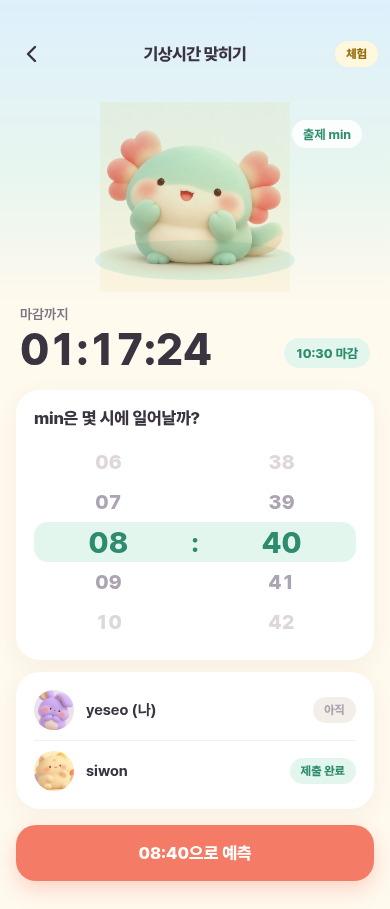
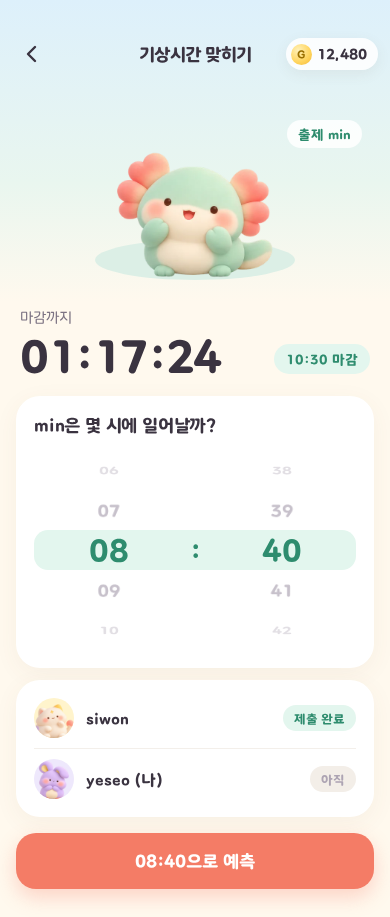
Document the final character art

diff --git a/docs/design.md b/docs/design.md
@@ -20,16 +20,32 @@
 | 본문 여백 | 16px, 카드 간격 12px |
 | 제목/카운트다운 | 17px 800 / 44px 800 |
 
-캐릭터 8종의 원본은 크림색 배경의 1254px RGB 이미지다. 시안처럼 `mix-blend-mode:multiply`로 배경을 녹이면 색이 있는 배경 위에서 네모 테두리가 드러나므로, `scripts/cutout-characters.py`로 배경을 투명하게 오리고 바닥 그림자만 반투명으로 남긴 640px PNG를 `public/characters`에 넣었다. 캐릭터 그림 자체는 수정하지 않았다. 파일 이름은 시안과 같다(`bread`, `monkey` 등). 현재 애니메이션은 CSS의 가벼운 움직임이며 `prefers-reduced-motion`을 지원한다. 최종 투명 캐릭터나 Rive/Lottie는 후속 작업이다.
+캐릭터 8종은 사용자가 완성한 투명 RGBA 아트다. 원본은 Google Drive의 [YEGOOM 3/characterImg](https://drive.google.com/drive/folders/1PTne7e8qwR8GlWlDRXyHTMHcZ_MDo71O)에 읽기 전용으로 보관한다. 캐릭터마다 `idle`, `happy`, `sleepy`, `greet`, `jump` 시트가 하나씩 있으며, 각 시트는 1536×1024px, 3열×2행의 512×512px 칸 6개로 구성된다. 프레임 순서는 좌→우, 위→아래이며 발 기준선은 칸 안의 y=470이다. 공중 프레임과 포즈별 차이를 포함해 원본 위치를 그대로 유지한다.
+
+`scripts/prepare-characters.py`는 칸을 자르고 이어 붙이거나 포맷을 변환할 뿐, 앱에 쓰는 프레임을 리샘플하거나 이동·보정하지 않는다. `idle`의 f0을 그대로 저장한 512px RGBA PNG 8장을 `public/characters/<key>.png`에, 6프레임을 가로로 이어 붙인 3072×512px WebP 40장을 `public/characters/sprites/<key>-<state>.webp`에 둔다. WebP는 RGB quality 85와 무손실 alpha를 사용한다. 키·캐릭터 이름·tint는 유지한다. 분리한 프레임, 미리보기 GIF, 검사 시트와 `manifest.csv`는 [characterImg_web](https://drive.google.com/drive/folders/1mtBQMxxZqBEpQ2uk532ZtcuBg98o8FER)에 보관한다.
+
+`src/components/UI.tsx`의 `CharacterSprite`는 `background-position-x`를 `steps(6, jump-none)`으로 옮겨 6프레임을 같은 시간씩 표시한다. 재생 설정은 한 곳에 모은다.
+
+| state | 길이 | 재생 |
+| --- | --- | --- |
+| `idle` | 1800ms | 반복 |
+| `sleepy` | 2400ms | 반복 |
+| `happy` | 1200ms | 반복 |
+| `greet` | 900ms | 1회 후 기본 state로 복귀 |
+| `jump` | 680ms | 1회 후 기본 state로 복귀 |
+
+홈 방은 아침에 `greet` 후 `idle`, 저녁에 인사 없이 `sleepy`를 재생하며 탭하면 `jump` 후 해당 기본 state로 돌아온다. 예측 게임 히어로는 기존 지연 시간을 유지해 진입 인사와 공개 후 점프를 재생한다. 로그인 3마리는 `idle`을 0·−0.6·−1.2초 지연으로 시작하고, 랭킹 시상대는 착지 후 1위가 `happy`, 2·3위가 `idle`을 반복한다. 내 정보는 `idle`, 뽑기 성공 화면은 착지 후 `happy`를 반복한다. Avatar, 캐릭터 선택 그리드, 목록·배너·방 액자, 주식·상점·쿠지, 뽑기 기계 안과 집게의 인형은 정지 PNG를 사용한다.
+
+스프라이트가 로드되기 전이나 FAIL 판정일 때는 정지 이미지를 표시하며, 1회 재생은 로드가 끝난 뒤 시작한다. `prefers-reduced-motion: reduce`에서는 f0 정지 이미지만 표시하고 1회 재생 완료 콜백을 바로 호출한다. 스프라이트에는 같은 의미의 `bob`·`sway`나 기존 인사·점프 모션을 겹치지 않는다. `dropIn`, 내 정보의 캐릭터 교체, `popIn`은 바깥 요소에서 유지한다. Rive/Lottie는 후속 작업이다.
 
 Pretendard 라이선스는 `public/fonts/OFL.txt`에 포함한다. 캐릭터는 사용자 제공 자료로서 별도 재배포 라이선스를 임의 부여하지 않는다. 앱 아이콘은 별도 SVG로 만들었으며 `scripts/build-icons.mjs`로 PNG를 재생성할 수 있다.
 
 ## 모션
 
-Claude Design의 `Yegoom Motion Spec`과 `yegoom-motion.js`를 `src/motion.ts`로 옮겼다. 토큰(시간 120–1200ms, `out`·`inOut`·`spring` 곡선)과 캐릭터 동작(대기·인사·탭 반응·기쁨 홉·저녁 흔들림), 컨페티·반짝이·코인·토스트를 모두 이 파일에서 가져다 쓴다. 규칙은 시안과 같다.
+Claude Design의 `Yegoom Motion Spec`과 `yegoom-motion.js`를 `src/motion.ts`로 옮겼다. 토큰(시간 120–1200ms, `out`·`inOut`·`spring` 곡선), 기존 캐릭터 동작 함수, 컨페티·반짝이·코인·토스트는 이 파일에 유지한다. 위에서 정한 스프라이트 적용 위치의 인사·점프·반복 동작만 프레임 재생으로 바꾼다. 나머지 모션 규칙은 시안과 같다.
 
-- transform(scale·translate·rotate)과 opacity만 움직인다. 레이아웃 속성은 애니메이션하지 않는다.
-- 반복 모션은 캐릭터 대기와 인형 운반 흔들림뿐이다. 축하 연출은 1.2초 이하, 컨페티는 화면당 한 번이다.
+- `src/motion.ts`의 모션은 transform(scale·translate·rotate)과 opacity만 움직인다. 스프라이트는 안쪽 요소의 `background-position`만 움직이며, 레이아웃 속성은 애니메이션하지 않는다.
+- 반복 모션은 위 표의 캐릭터 상태와 인형 운반 흔들림에 사용한다. 기존 축하 연출은 1.2초 이하, 컨페티는 화면당 한 번이다.
 - `prefers-reduced-motion`이면 이동·크기·회전을 끄고 200ms 이하 페이드만 남긴다. 숫자는 바로 바뀌고 입자와 반복 모션은 없다.
 
 시안과 다른 점: 하위 화면 push/pop은 새 화면만 움직인다(이전 화면은 바로 사라진다). 화면 전환에서 이전 화면을 함께 밀어내려면 라우터가 두 화면을 동시에 유지해야 해서 후속 작업으로 남겼다.

diff --git a/README.md b/README.md
@@ -92,7 +92,8 @@ npm run deploy:check             # 원격 배포 없이 Worker 패키징 검사
 | `src/screens/` | 홈·랭킹·출석·내 정보·주식·상점 화면 |
 | `src/sample.ts` | 잠정 밸런스 값(`BALANCE`)과 미리보기 데이터 |
 | `src/motion.ts` | 모션 토큰·캐릭터 동작·컨페티·토스트 (Claude Design 모션 스펙) |
-| `scripts/cutout-characters.py` | 캐릭터 원본의 크림색 배경 제거 |
+| `scripts/prepare-characters.py` | 최종 캐릭터 시트를 프레임·정지 PNG·웹 스프라이트·QA 자료로 분리 |
+| `scripts/cutout-characters.py` | 캐릭터 원본의 크림색 배경 제거 (이전 임시 아트용) |
 | `src/styles.css`, `src/preview.css`, `src/screens.css` | 시안에서 옮긴 디자인 값과 반응형 화면 |
 | `shared/types.ts` | 프런트엔드/Worker API 계약 |
 | `worker/index.ts` | 인증, 권한 검사, D1 저장·조회 |
